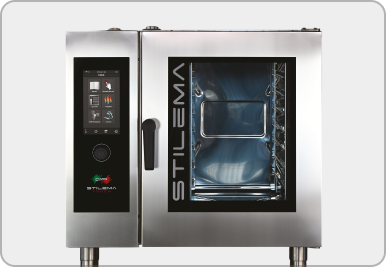
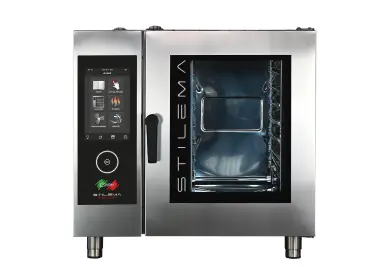
fix

Changed region(s): [[0.0, 0.0, 1.0, 1.0]]

diff --git a/src/routes/Home.svelte b/src/routes/Home.svelte
@@ -16,7 +16,7 @@
     const imageCard4 = '/cards-category/catering-rent.webp';
     
     /*Image of products main*/
-    const cardProduct1 = '/cards-main-products/SteadyCookMech.png';
+    const cardProduct1 = '/cards-main-products/SteadyCookMech.webp';
     const cardProduct2 = '/cards-main-products/SteadyCookTouch.webp';
     const cardProduct3 = '/cards-main-products/SteadyCookVisual.webp';
     const cardProduct4 = '/cards-main-products/MasterDelightVisual.webp';
@@ -115,9 +115,7 @@
             </a>
         </CardProductMain>
         <CardProductMain image={cardProduct6} title={'Stilema'} text={"Nuova generazione di forni a ventilazione laterale: alta tecnologia e grande intuitività. Test in corso nel 2025, distribuzione da gennaio 2026."}>
-            <a href="#/styleme">
-                <button id="btnPrimary-outline">Scopri di più</button>
-            </a>
+            
         </CardProductMain>
         <CardProductMain image={cardProduct4} title={'Master Delight Visual'} text={"Forni professionali per la pasticceria e la panificazione. Tecnologia programmabile con comandi capacitivi."}>
             <a href="#/master-delight-visual">

diff --git a/src/components/Nav.svelte b/src/components/Nav.svelte
@@ -149,7 +149,7 @@
                 </ul>
             </div>
         </div>
-        <a href="#/styleme" class:selected={$currentPath === '/styleme'} on:click={closeMenus}>Stilema</a>
+        <!--a href="#/styleme" class:selected={$currentPath === '/styleme'} on:click={closeMenus}>Stilema</a-->
         <a href="#/accessories" class:selected={$currentPath === '/accessories'} on:click={closeMenus}>Accessori</a>
         <a href="#/about" class:selected={$currentPath === '/about'} on:click={closeMenus}>Contatti</a>
     </div>

diff --git a/src/components/Footer.svelte b/src/components/Footer.svelte
@@ -41,7 +41,7 @@
         <ul>
             <li><a href="#/steady-cook">Linea Steady Cook</a></li>
             <li><a href="#/master-delight">Linea Master Delight</a></li>
-            <li><a href="#/styleme">Stilema</a></li>
+            <!--li><a href="#/styleme">Stilema</a></li-->
         </ul>
     </div>
     <div>

diff --git a/src/components/CardProductMain.svelte b/src/components/CardProductMain.svelte
@@ -22,6 +22,8 @@
         width: 100%;
         height: auto;
         margin-bottom: 5px;
+        border: 1px solid #f4f4f4;
+        border-radius: 15px;
     }
 
     .product-title {
